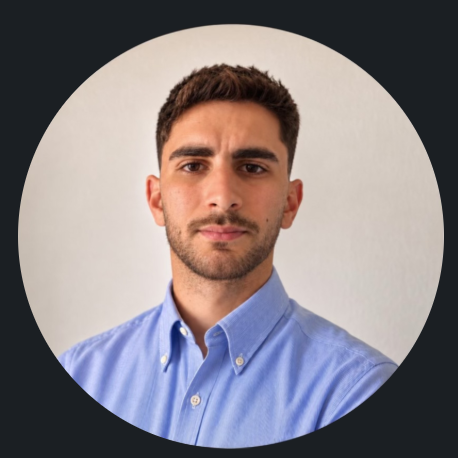
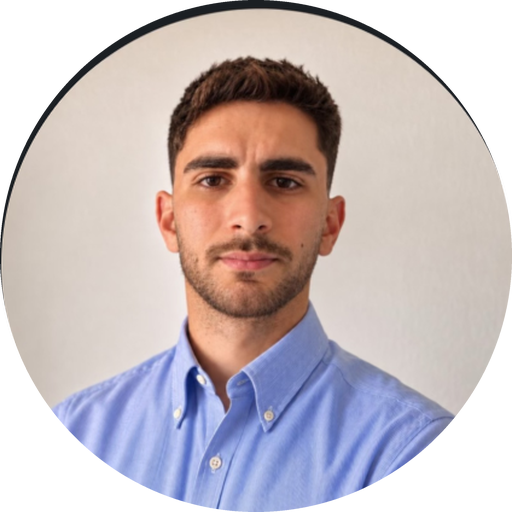
contact_info

diff --git a/frontend/src/app/contact-page/contact-page.ts b/frontend/src/app/contact-page/contact-page.ts
@@ -2,13 +2,12 @@ import { Component, signal } from '@angular/core';
 
 interface TeamMember {
   name: string;
-  role: string;
+  /** A short, general description of the person (not their role in the project). */
   description: string;
   /** Path to the photo in public/, e.g. '/team/maria.jpg'. Leave empty to show initials. */
   photo?: string;
   email?: string;
-  linkedin?: string;
-  github?: string;
+  phone?: string;
 }
 
 @Component({
@@ -22,58 +21,45 @@ export class ContactPage {
   // Τα μέλη της ομάδας: συμπλήρωσε τα στοιχεία σας εδώ.
   // Οι φωτογραφίες μπαίνουν στο φάκελο public/team/
   // Αν λείπει μια φωτογραφία, εμφανίζονται τα αρχικά του ονόματος.
-  // Αν λείπει email/linkedin/github, το αντίστοιχο κουμπί δεν εμφανίζεται.
+  // Αν λείπει email ή phone, η αντίστοιχη γραμμή δεν εμφανίζεται.
   // ============================================================
   readonly members: TeamMember[] = [
     {
-      name: 'Member One',
-      role: 'Data engineering',
+      name: 'Konstantinos Goutsias',
       description:
-        'Built the Databricks pipelines that ingest the raw files and turn them into trusted Bronze and Silver tables, including the data-quality checks and quarantine.',
-      photo: '/team/member1.jpg',
-      email: 'member1@example.com',
-      linkedin: 'https://www.linkedin.com/in/member1',
-      github: 'https://github.com/member1',
+        'Electrical and Computer Engineering graduate of the Technical University of Crete, with a specialization in Machine Learning and Artificial Intelligence.',
+      photo: '/team/kostas.png',
+      email: 'gkostassg@gmail.com',
+      phone: '+30 694 831 1000',
     },
     {
-      name: 'Member Two',
-      role: 'Analytics',
+      name: 'Anna Allagioti',
       description:
-        'Designed the Gold star schema and the Fabric semantic model, wrote the DAX measures and built the Power BI report.',
-      photo: '/team/member2.jpg',
-      email: 'member2@example.com',
-      linkedin: 'https://www.linkedin.com/in/member2',
-      github: 'https://github.com/member2',
+        'Electrical and Computer Engineer, currently an MSc student in Data Science and Information Technologies with a specialization in Artificial Intelligence.',
+      photo: '/team/anna.png',
+      email: 'annaallayioti@gmail.com',
+      phone: '+30 694 789 8342',
     },
     {
-      name: 'Member Three',
-      role: 'AI and API',
+      name: 'Grigoris Triantafyllou',
       description:
-        'Built the FastAPI layer and the LangChain assistant, including the data tools the model is allowed to call and how answers are grounded.',
-      photo: '/team/member3.jpg',
-      email: 'member3@example.com',
-      linkedin: 'https://www.linkedin.com/in/member3',
-      github: 'https://github.com/member3',
+        'Informatics graduate of the Athens University of Economics and Business (AUEB).',
+      photo: '/team/greg.png',
+      email: 'gregorestriantafyllou@gmail.com',
+      phone: '+30 698 836 1234',
     },
     {
-      name: 'Member Four',
-      role: 'Cloud and DevOps',
+      name: 'Solonas',
       description:
-        'Set up the Azure resources, identity and Key Vault, and the CI/CD pipeline that tests and deploys the solution.',
-      photo: '/team/member4.jpg',
-      email: 'member4@example.com',
-      linkedin: 'https://www.linkedin.com/in/member4',
-      github: 'https://github.com/member4',
+        'Comes from the School of Electrical and Computer Engineering at the National Technical University of Athens (NTUA).',
+      photo: '/team/solonas.png',
+      email: 'solonasdamigos@gmail.com',
+      phone: '+30 694 628 0070',
     },
     {
-      name: 'Member Five',
-      role: 'Project management',
-      description:
-        'Planned the milestones, coordinated the work across the team, tracked risks and dependencies, and owned the final delivery.',
-      photo: '/team/member5.jpg',
-      email: 'member5@example.com',
-      linkedin: 'https://www.linkedin.com/in/member5',
-      github: 'https://github.com/member5',
+      // Placeholder: συμπλήρωσε όταν έχεις τα στοιχεία
+      name: 'Team Member',
+      description: 'Details coming soon.',
     },
   ];
 

diff --git a/frontend/src/app/contact-page/contact-page.css b/frontend/src/app/contact-page/contact-page.css
@@ -34,25 +34,22 @@
 }
 
 /* ---------- Team grid ---------- */
-/* 3 κάρτες στην πρώτη σειρά, 2 κεντραρισμένες στη δεύτερη */
+/* Και τα 5 μέλη στην ίδια σειρά */
 .team {
   list-style: none;
-  max-width: 1080px;
+  max-width: 1400px;
   margin: 0 auto;
   padding: 0;
-  display: flex;
-  flex-wrap: wrap;
-  justify-content: center;
-  gap: 1.25rem;
+  display: grid;
+  grid-template-columns: repeat(5, minmax(0, 1fr));
+  gap: 1rem;
 }
 
 .member {
-  flex: 1 1 300px;
-  max-width: calc((100% - 2.5rem) / 3);
   display: flex;
   flex-direction: column;
   align-items: center;
-  padding: 2rem 1.5rem 1.5rem;
+  padding: 1.75rem 1.1rem 1.25rem;
   background: var(--surface);
   border: 1px solid var(--border);
   border-radius: 18px;
@@ -67,8 +64,8 @@
 
 /* ---------- Photo ---------- */
 .photo {
-  width: 120px;
-  height: 120px;
+  width: 108px;
+  height: 108px;
   margin-bottom: 1.25rem;
   border-radius: 50%;
   overflow: hidden;
@@ -91,65 +88,64 @@
   justify-content: center;
   background: linear-gradient(135deg, #3b1678 0%, var(--accent) 100%);
   color: #ffffff;
-  font-size: 2.2rem;
+  font-size: 2rem;
   font-weight: 700;
   letter-spacing: 0.02em;
 }
 
 /* ---------- Text ---------- */
 .member h2 {
-  margin: 0 0 0.3rem;
-  font-size: 1.2rem;
+  margin: 0 0 0.75rem;
+  font-size: 1.1rem;
   font-weight: 700;
-}
-
-.role {
-  margin: 0 0 1rem;
-  color: var(--accent-hover);
-  font-size: 0.9rem;
-  font-weight: 600;
 }
 
 .description {
   margin: 0 0 1.5rem;
   color: var(--text-soft);
-  font-size: 0.92rem;
+  font-size: 0.88rem;
   line-height: 1.55;
-  flex: 1; /* σπρώχνει τα κουμπιά στο κάτω μέρος, ώστε να ευθυγραμμίζονται */
+  flex: 1; /* σπρώχνει τα στοιχεία επικοινωνίας στο κάτω μέρος, ώστε να ευθυγραμμίζονται */
 }
 
-/* ---------- Contact links ---------- */
-.links {
+/* ---------- Contact info (απλό κείμενο, χωρίς links) ---------- */
+.contact-info {
+  width: 100%;
+  margin: 0;
+  padding-top: 1.1rem;
+  border-top: 1px solid var(--border);
   display: flex;
-  flex-wrap: wrap;
-  justify-content: center;
-  gap: 0.5rem;
+  flex-direction: column;
+  gap: 0.55rem;
 }
 
-.link {
-  display: inline-flex;
+.contact-row {
+  display: flex;
   align-items: center;
-  gap: 0.4rem;
-  padding: 0.45rem 0.85rem;
-  border: 1px solid var(--border);
-  border-radius: 999px;
-  background: var(--surface-2);
-  color: var(--text-soft);
+  justify-content: center;
+  gap: 0.55rem;
+}
+
+.contact-row dt {
+  display: flex;
+  color: var(--accent-hover);
+}
+
+.contact-row dd {
+  margin: 0;
+  color: var(--text);
   font-size: 0.82rem;
-  font-weight: 600;
-  text-decoration: none;
-  transition: background 0.15s ease, border-color 0.15s ease, color 0.15s ease;
+  overflow-wrap: anywhere;
+  user-select: all; /* ένα κλικ επιλέγει όλο το email/τηλέφωνο για αντιγραφή */
 }
 
-.link:hover {
-  background: var(--accent);
-  border-color: var(--accent);
-  color: var(--on-accent);
-}
-
-.link:focus-visible {
-  outline: 2px solid var(--accent-hover);
-  outline-offset: 2px;
+.visually-hidden {
+  position: absolute;
+  width: 1px;
+  height: 1px;
+  overflow: hidden;
+  clip: rect(0 0 0 0);
+  white-space: nowrap;
 }
 
 @media (prefers-reduced-motion: reduce) {
@@ -163,13 +159,20 @@
 }
 
 /* ---------- Responsive ---------- */
-@media (max-width: 1000px) {
-  .member {
-    max-width: calc((100% - 1.25rem) / 2);
+/* Σε μικρότερες οθόνες δεν χωράνε 5 στη σειρά */
+@media (max-width: 1150px) {
+  .team {
+    grid-template-columns: repeat(3, minmax(0, 1fr));
   }
 }
 
-@media (max-width: 640px) {
+@media (max-width: 760px) {
+  .team {
+    grid-template-columns: repeat(2, minmax(0, 1fr));
+  }
+}
+
+@media (max-width: 520px) {
   .contact-page {
     padding-top: 2.5rem;
   }
@@ -178,7 +181,7 @@
     font-size: 1.9rem;
   }
 
-  .member {
-    max-width: 100%;
+  .team {
+    grid-template-columns: 1fr;
   }
 }

diff --git a/frontend/src/app/contact-page/contact-page.html b/frontend/src/app/contact-page/contact-page.html
@@ -1,10 +1,7 @@
 <div class="contact-page">
   <header class="intro">
     <h1>Meet the team</h1>
-    <p>
-      Five people built this platform end to end, from the raw data to the assistant.
-      Reach out to whoever owns the part you're interested in.
-    </p>
+    <p>The five people behind Skillakia. Feel free to get in touch with any of us.</p>
   </header>
 
   <ul class="team">
@@ -20,44 +17,37 @@
         </div>
 
         <h2>{{ m.name }}</h2>
-        <p class="role">{{ m.role }}</p>
         <p class="description">{{ m.description }}</p>
 
-        <div class="links">
-          @if (m.email) {
-            <a class="link" [href]="'mailto:' + m.email" [title]="m.email"
-               [attr.aria-label]="'Email ' + m.name">
-              <svg viewBox="0 0 24 24" width="16" height="16" aria-hidden="true">
-                <rect x="3" y="5" width="18" height="14" rx="2" fill="none" stroke="currentColor" stroke-width="2" />
-                <path d="M3 7l9 6 9-6" fill="none" stroke="currentColor" stroke-width="2"
-                      stroke-linecap="round" stroke-linejoin="round" />
-              </svg>
-              Email
-            </a>
-          }
-          @if (m.linkedin) {
-            <a class="link" [href]="m.linkedin" target="_blank" rel="noopener noreferrer"
-               [attr.aria-label]="m.name + ' on LinkedIn (opens in a new tab)'">
-              <svg viewBox="0 0 24 24" width="16" height="16" aria-hidden="true">
-                <rect x="3" y="3" width="18" height="18" rx="3" fill="none" stroke="currentColor" stroke-width="2" />
-                <path d="M8 10.5V17M8 7.5v.01M12 17v-3.5a2 2 0 0 1 4 0V17M12 10.5V17" fill="none"
-                      stroke="currentColor" stroke-width="2" stroke-linecap="round" />
-              </svg>
-              LinkedIn
-            </a>
-          }
-          @if (m.github) {
-            <a class="link" [href]="m.github" target="_blank" rel="noopener noreferrer"
-               [attr.aria-label]="m.name + ' on GitHub (opens in a new tab)'">
-              <svg viewBox="0 0 24 24" width="16" height="16" aria-hidden="true">
-                <path d="M9 19c-4.3 1.4-4.3-2.5-6-3m12 5v-3.5c0-1 .1-1.4-.5-2 2.8-.3 5.5-1.4 5.5-6a4.6 4.6 0 0 0-1.3-3.2 4.2 4.2 0 0 0-.1-3.2s-1.1-.3-3.5 1.3a12.3 12.3 0 0 0-6.2 0C6.5 2.8 5.4 3.1 5.4 3.1a4.2 4.2 0 0 0-.1 3.2A4.6 4.6 0 0 0 4 9.5c0 4.6 2.7 5.7 5.5 6-.6.6-.6 1.2-.5 2V21"
-                      fill="none" stroke="currentColor" stroke-width="2" stroke-linecap="round"
-                      stroke-linejoin="round" />
-              </svg>
-              GitHub
-            </a>
-          }
-        </div>
+        @if (m.email || m.phone) {
+          <dl class="contact-info">
+            @if (m.email) {
+              <div class="contact-row">
+                <dt>
+                  <svg viewBox="0 0 24 24" width="16" height="16" aria-hidden="true">
+                    <rect x="3" y="5" width="18" height="14" rx="2" fill="none" stroke="currentColor" stroke-width="2" />
+                    <path d="M3 7l9 6 9-6" fill="none" stroke="currentColor" stroke-width="2"
+                          stroke-linecap="round" stroke-linejoin="round" />
+                  </svg>
+                  <span class="visually-hidden">Email</span>
+                </dt>
+                <dd>{{ m.email }}</dd>
+              </div>
+            }
+            @if (m.phone) {
+              <div class="contact-row">
+                <dt>
+                  <svg viewBox="0 0 24 24" width="16" height="16" aria-hidden="true">
+                    <path d="M5 4h4l2 5-2.5 1.5a11 11 0 0 0 5 5L15 13l5 2v4a2 2 0 0 1-2 2A16 16 0 0 1 3 6a2 2 0 0 1 2-2z"
+                          fill="none" stroke="currentColor" stroke-width="2" stroke-linejoin="round" />
+                  </svg>
+                  <span class="visually-hidden">Phone</span>
+                </dt>
+                <dd>{{ m.phone }}</dd>
+              </div>
+            }
+          </dl>
+        }
       </li>
     }
   </ul>
